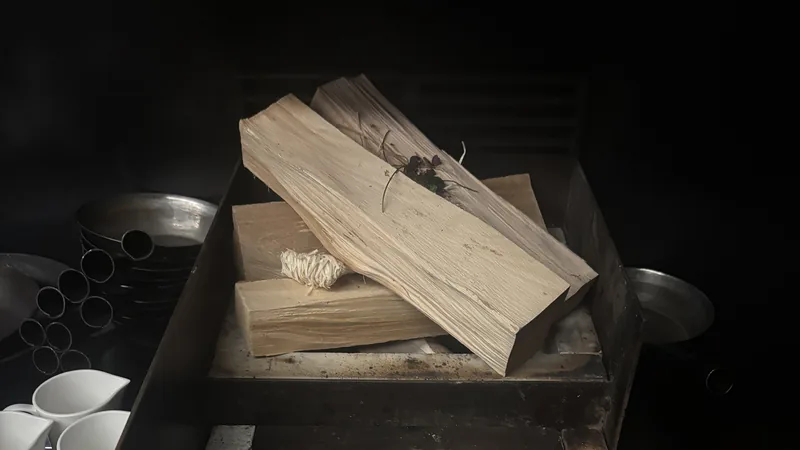
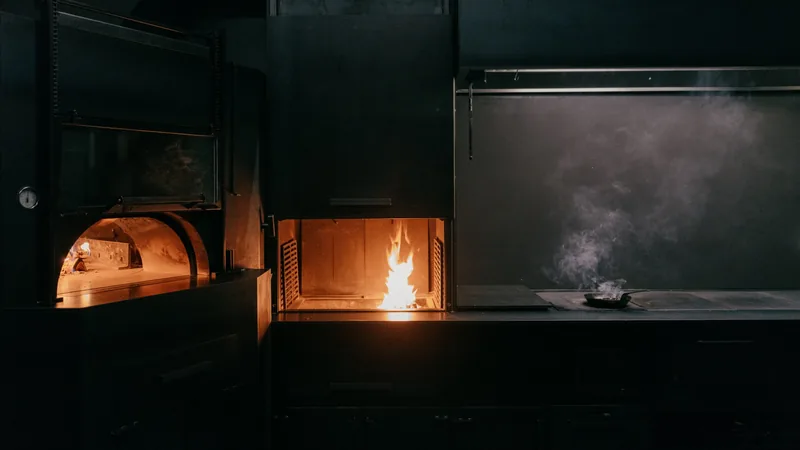
Doubek: Foto der Feuerlinie statt Holzstapel, Fotografen-Credit ergaenzt

diff --git a/index.html b/index.html
@@ -509,7 +509,7 @@
 </div>
 <div class="slide-block reveal">
 <figure class="canvas">
-<div class="ph" style="left:0.00%;top:0.00%;width:100.00%;height:100.00%"><img src="img/s79-0-internship-at-restaurant-doubek-2200.webp" srcset="img/s79-0-internship-at-restaurant-doubek-800.webp 800w, img/s79-0-internship-at-restaurant-doubek-2200.webp 2200w" sizes="(max-width: 760px) 100vw, 1480px" width="2200" height="1238" alt="Internship at Restaurant Doubek" loading="lazy" decoding="async"></div>
+<div class="ph" style="left:0.00%;top:0.00%;width:100.00%;height:100.00%"><img src="img/s79-0-internship-at-restaurant-doubek-2000.webp" srcset="img/s79-0-internship-at-restaurant-doubek-800.webp 800w, img/s79-0-internship-at-restaurant-doubek-2000.webp 2000w" sizes="(max-width: 760px) 100vw, 1480px" width="2000" height="1125" alt="Internship at Restaurant Doubek" loading="lazy" decoding="async"><span class="credit-tag">© Julius Hirtzberger</span></div>
 <div class="caption" style="left:4.9%;top:7.9%;width:90.1%"><p>Internship at Restaurant Doubek</p></div>
 <div class="caption" style="left:72.7%;bottom:3.5%;width:23.5%"><p>1 week,<br>full-time on all shifts</p></div>
 </figure>
